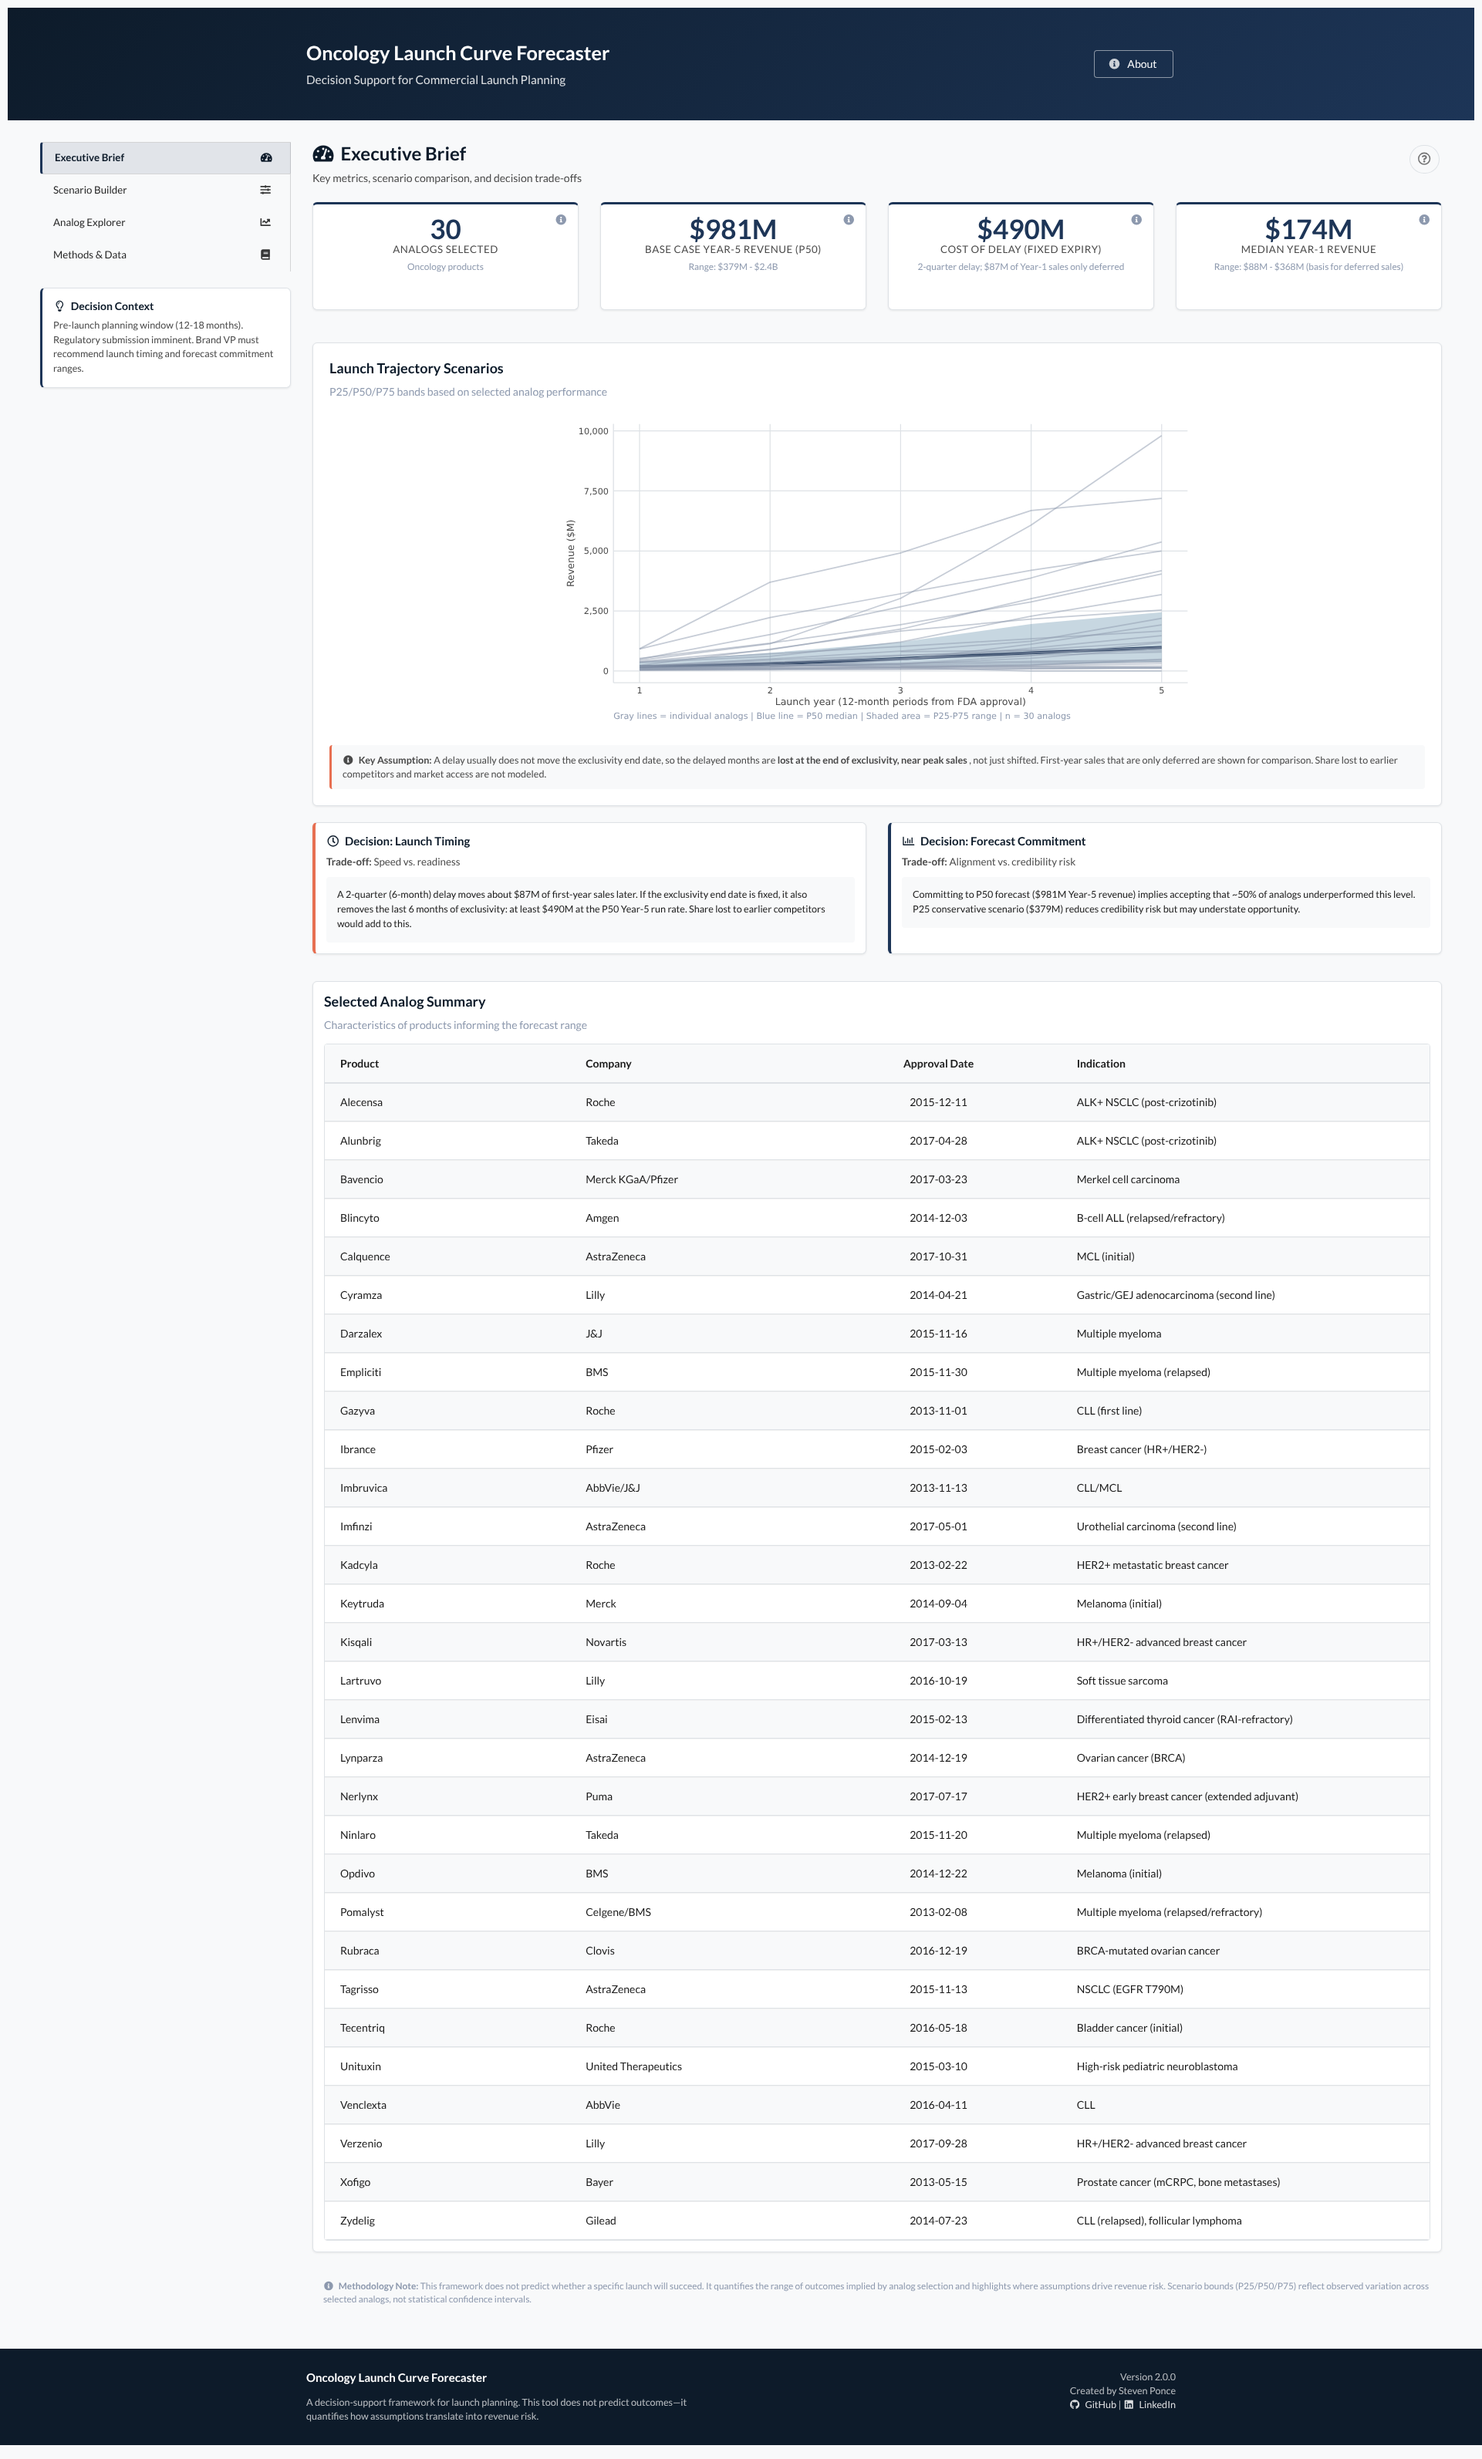
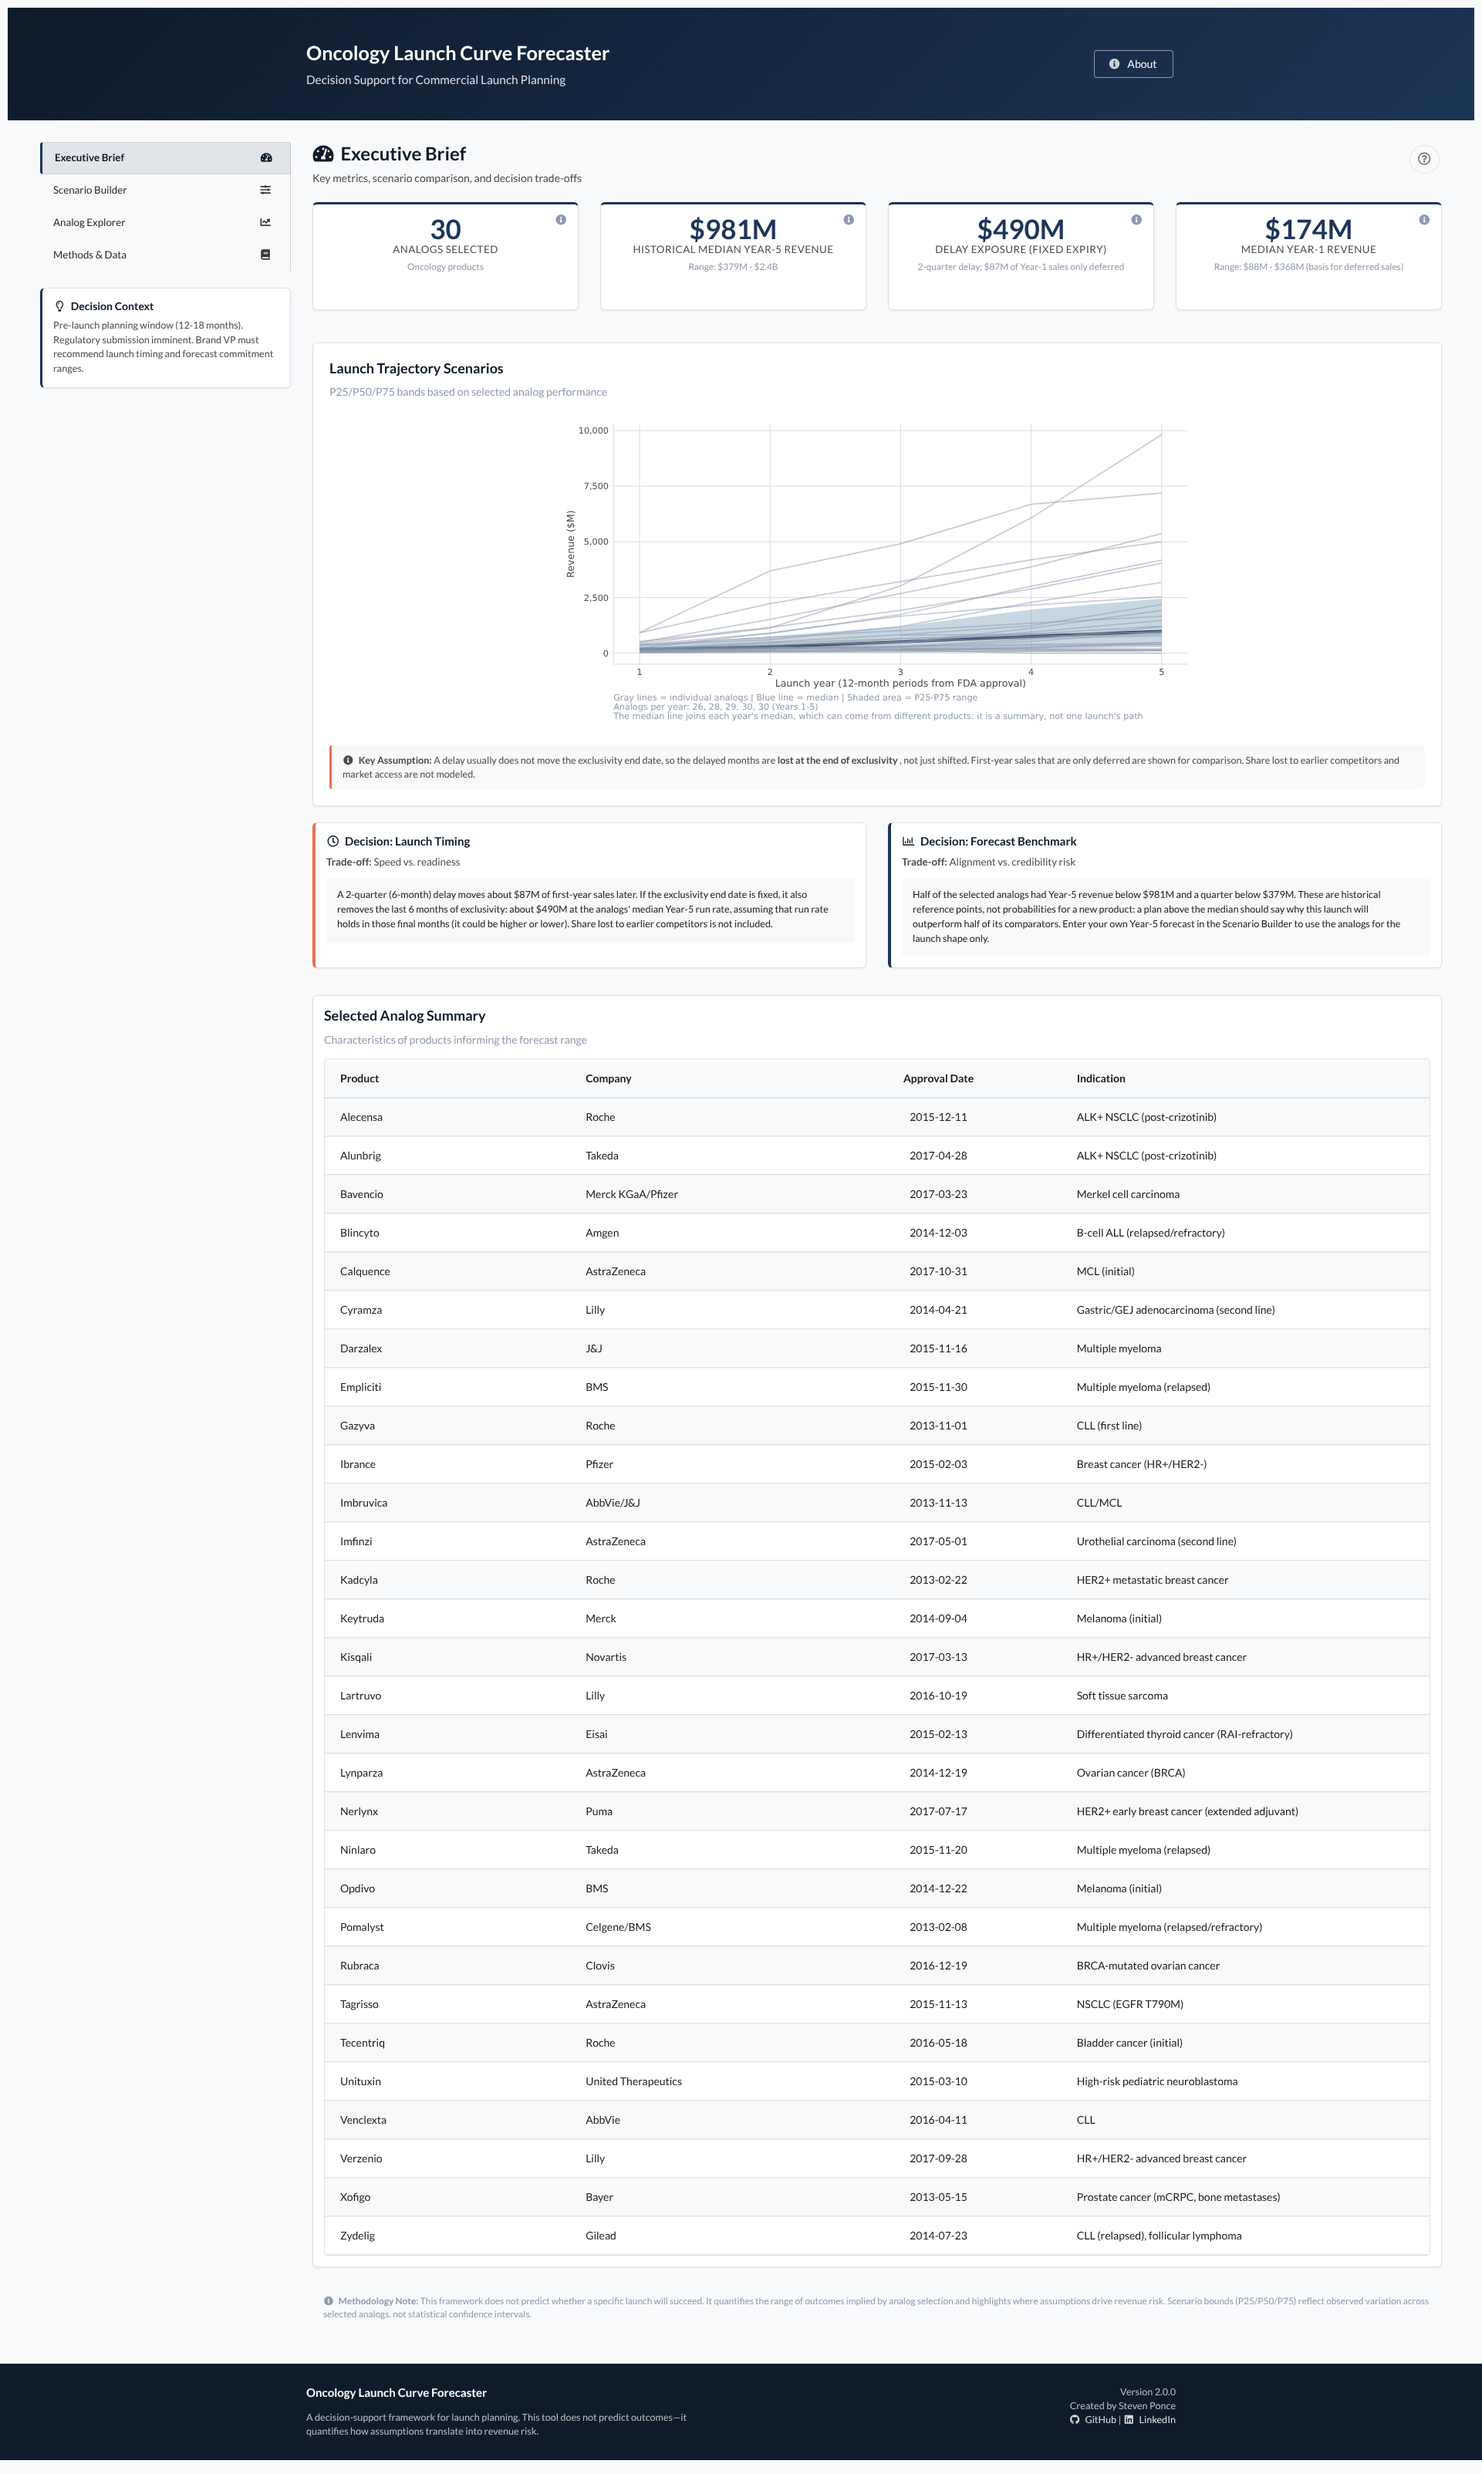
Address external review: delay exposure, historical median, scenario record
- Relabel cost of delay as "delay exposure at the Year-5 run rate"; drop
  the lower-bound / "at least" / "near peak" claims
- "Historical median" wording; forecast-benchmark text no longer implies
  probabilities; chart shows analogs per year and notes the median line
  is a summary, not one launch
- Downloadable scenario record (criteria, products, exclusions with
  reasons, outcome-filter flag, data version, rationale, results)
- Methods/README: bias direction unknown; worldwide sales vs US approval
  date; reproduce section (no renv)
- Analog table paged and searchable; deploy check matches ui_main.R /
  server_main.R and flags ui.R/server.R; DESCRIPTION trailing line fixed

Claude-Session: https://claude.ai/code/session_01KqNmoBVMfpgYt9CoMMYhV9

diff --git a/README.md b/README.md
@@ -50,8 +50,8 @@ This framework supports that question by:
 
 | Capability | Implementation |
 |----|----|
-| Governance-first analog selection | Inclusion criteria locked before examining outcomes |
-| Revenue-at-risk quantification | Year 1 impact from configurable delay scenarios |
+| Governance-first analog selection | Criteria fixed before outcomes are examined; the app records them in a downloadable scenario record (approval itself happens outside the app) |
+| Delay exposure | Sales displaced at the end of exclusivity and first-year sales deferred, for a configurable delay |
 | Sensitivity testing | Option to exclude the top-performing analog (by Year-5 revenue) |
 | Dynamic selection rationale | Live statistics: solid/heme count, approval-year range, median Year-5 revenue |
 | Transparent methodology | Assumptions, limitations, and exclusions clearly documented |
@@ -85,7 +85,7 @@ NPV and market access modeling are excluded because they require company-specifi
 
 ### Executive Brief
 
-![Executive Brief](screenshots/executive_brief.png) *High-level summary with key metrics (analog count, Year-5 revenue range, cost of delay, median Year-1 revenue), scenario comparison chart, and decision framing.*
+![Executive Brief](screenshots/executive_brief.png) *High-level summary with key metrics (analog count, historical median Year-5 revenue and range, delay exposure, median Year-1 revenue), scenario comparison chart, and decision framing.*
 
 ### Scenario Builder
 
@@ -117,6 +117,8 @@ All 56 candidates and the reason each was kept, dropped or ruled out of scope ar
 
 Two optional filters use outcomes (excluding the top analog, and a minimum Year-5 revenue). Because they look at results, they are offered as **sensitivity checks**, not selection criteria.
 
+**Scenario record.** The app supports governance rather than enforcing it: anyone can change the selection and see the results. The Scenario Builder therefore exports a dated Markdown record of the applied criteria, included and excluded products (with the reason for each exclusion), whether an outcome-based filter was on, the data version, the inputs and the results, plus a free-text rationale. That record is what gets filed with the approval.
+
 **Alignment:** Launch Year 1 is the 12 months after each drug's first FDA approval date, Year 2 the next 12 months, and so on to Year 5. Companies report by fiscal year (April–March for Eisai and Takeda), so each fiscal-year total is spread evenly over the days it covers and split across the launch years it overlaps (`scripts/02_data_preparation.R`). Sales usually grow within a year, so this slightly overstates early launch years and understates later ones.
 
 ------------------------------------------------------------------------
@@ -125,20 +127,19 @@ Two optional filters use outcomes (excluding the top analog, and a minimum Year-
 
 Percentile bands are derived from observed analog performance:
 
--   **P50 (Base Case):** Median analog trajectory
--   **P75 (Upper Range):** Upper quartile performance
--   **P25 (Lower Range):** Lower quartile performance
+-   **P50:** historical median of the selected analogs
+-   **P25 / P75:** historical interquartile range
 
-> **Important:** These represent observed analog ranges, not statistical confidence intervals.
+> **Important:** These describe the selected historical products. They are not confidence intervals, and P50 is not a 50% probability for a new product. The median curve joins each year's median, which can come from different products, so it summarizes the set rather than tracing a launch that happened. The chart shows how many analogs sit behind each year (26 to 30).
 
 > **Year-5 revenue, not peak:** every analog is observed for five years after approval. Most were still growing at Year 5 (Zydelig, Nerlynx, Rubraca and the withdrawn Lartruvo had already peaked), so revenue figures describe Year-5 revenue, not a lifetime peak.
 
 ------------------------------------------------------------------------
 
-### Revenue-at-Risk Calculation
+### Delay Exposure Calculation
 
 ```         
-Lost if exclusivity end is fixed = delay_quarters / 4 × P50 Year-5 revenue   (lower bound for analogs still growing at Year 5)
+Delay exposure (fixed exclusivity end) = delay_quarters / 4 × median Year-5 revenue
 Deferred first-year sales       = delay_quarters × (median Year-1 revenue / 4)
 ```
 
@@ -148,7 +149,7 @@ Deferred first-year sales       = delay_quarters × (median Year-1 revenue / 4)
 Implied Year-t revenue = expected Year-5 revenue × P50 analog shape at Year t
 ```
 
-The deferred figure is a Year-1 average-quarter approximation; the lost figure is a lower bound for products still growing at Year 5. Lartruvo, with no Year-5 sales, has no defined shape and is left out of product mode.
+The deferred figure is a Year-1 average-quarter approximation. The exposure figure assumes the Year-5 run rate applies to the final quarters of exclusivity, often ten or more years after launch; sales then could be higher (continued growth) or lower (competition, label changes), so it is an exposure estimate, not a bound. A full comparison would value the delayed and on-time revenue paths over the same calendar horizon. Lartruvo, with no Year-5 sales, has no defined shape and is left out of product mode.
 
 ------------------------------------------------------------------------
 
@@ -185,6 +186,24 @@ Every 2013–2017 oncology new molecular entity that meets the criteria above:
 
 ------------------------------------------------------------------------
 
+## Reproduce
+
+Requires R 4.3+ and the packages in `app/DESCRIPTION` (installed from CRAN; the project does not use renv).
+
+```r
+install.packages(c("shiny", "shiny.semantic", "dplyr", "tidyr", "purrr", "stringr",
+                   "scales", "ggplot2", "ggiraph", "reactable", "readr"))
+```
+
+From the project root:
+
+1.  `python3 scripts/03_merge_analog_expansion.py`: merge the sourced values in `data/raw/expansion/` into the raw files (only needed after editing those sourced values)
+2.  `Rscript scripts/02_data_preparation.R`: build launch years and write `app/data/processed/`
+3.  `Rscript scripts/04_deploy_checks.R`: check the app folder before deploying
+4.  `shiny::runApp("app")`
+
+------------------------------------------------------------------------
+
 ## Technology Stack
 
 | Component     | Technology                   |
@@ -212,12 +231,13 @@ Every 2013–2017 oncology new molecular entity that meets the criteria above:
 
 -   Reporting definitions differ slightly by company (see Data Sources)
 -   Launch years are apportioned from fiscal-year totals assuming even sales within each year
--   Survivorship in the data, not the selection: 16 eligible drugs were dropped because their sales were not reported separately or their owner changed; these are mostly smaller launches, so the bands may still lean slightly high
+-   16 eligible drugs were dropped because their sales were not reported separately or their owner changed. They include small launches (Farydak, Odomzo) and large ones (Tafinlar + Mekinist, Zejula), so the direction and size of any remaining bias are unknown
+-   Worldwide sales are aligned to the US approval date: a drug sold elsewhere first (Alecensa in Japan from 2014) has higher early launch years, one launched outside the US later has lower ones
 -   Five launch years are missing (see Data status), so early-year percentiles rest on 26–29 analogs
 -   Opdivo excludes Ono's territories (Japan, Korea, Taiwan), so its curve understates global sales
 -   Label expansion can introduce upward bias in Year-5 revenues
 -   Earlier analogs may not fully reflect current launch environments
--   Revenue-at-risk calculation is simplified (not a full DCF model)
+-   Delay exposure is a run-rate approximation, not a comparison of revenue paths or a DCF model
 -   Competitive dynamics and market access are not modeled
 
 ------------------------------------------------------------------------
